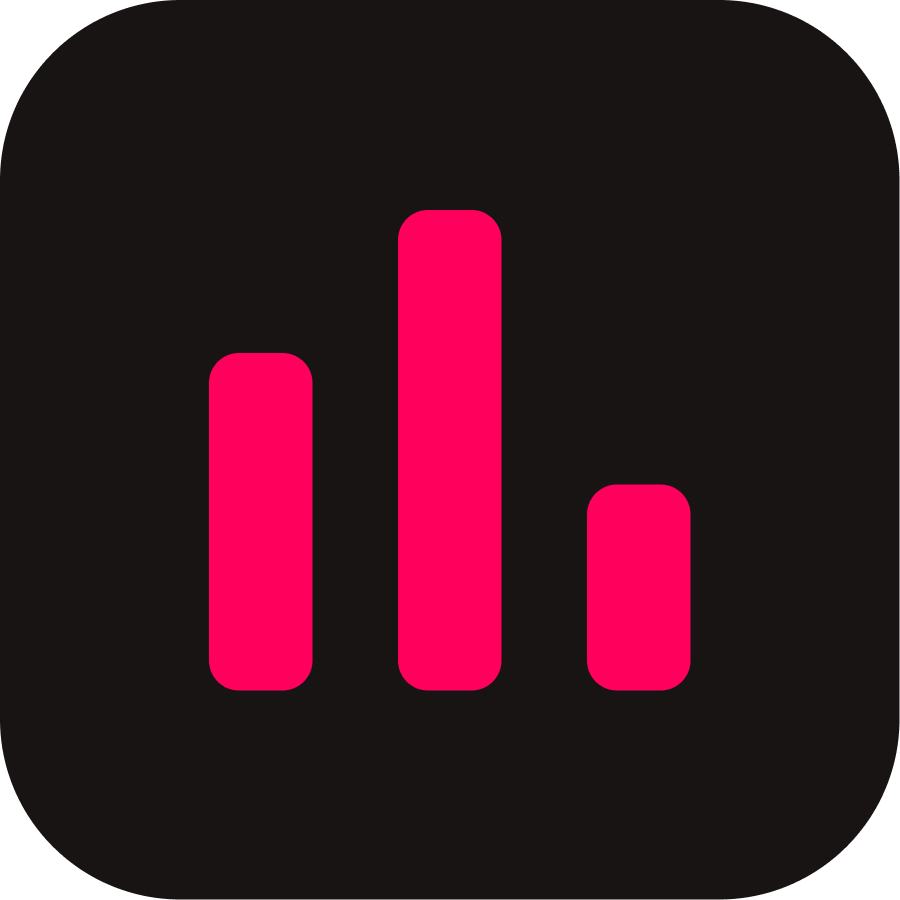
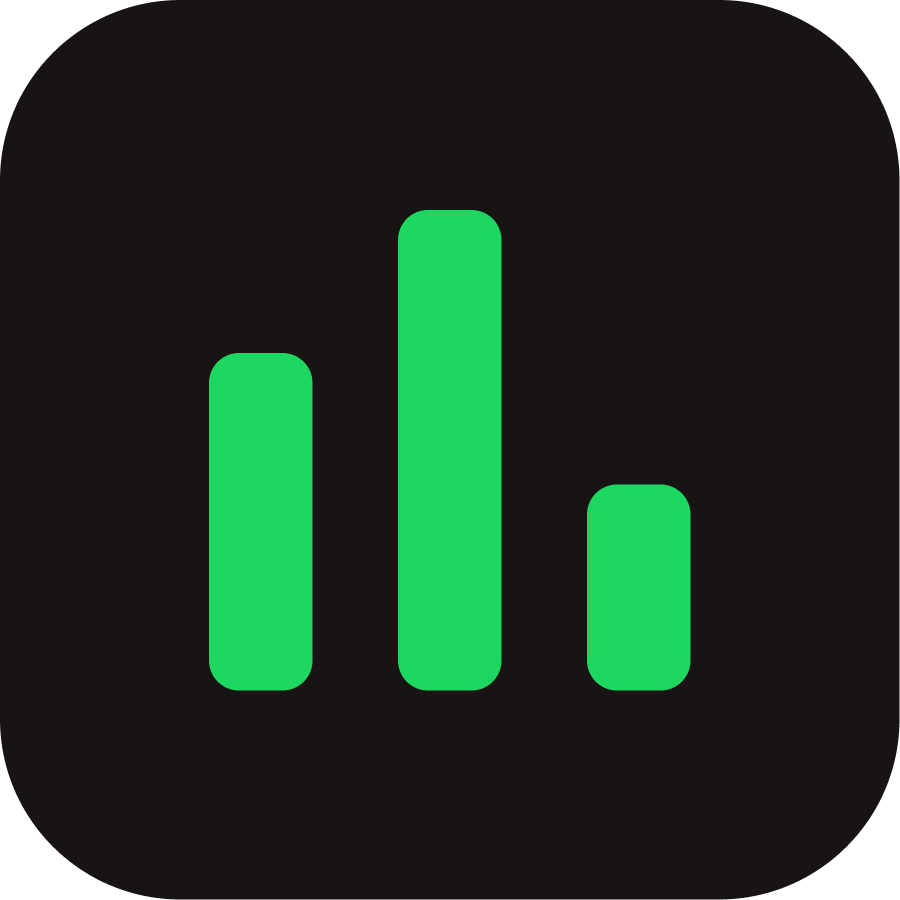
feat(core): back to green theme

Changed region(s): [[0.4356, 0.2178, 0.56, 0.7778], [0.2178, 0.3733, 0.3733, 0.7778], [0.6533, 0.5289, 0.7778, 0.7778]]

diff --git a/src/.vuepress/config.ts b/src/.vuepress/config.ts
@@ -8,6 +8,10 @@ export default defineUserConfig<DefaultThemeOptions, ViteBundlerOptions>({
   bundler: "@vuepress/vite",
   themeConfig: {
     logo: "/assets/icon.png",
+    // algolia: {
+    //   apiKey: '<API_KEY>',
+    //   indexName: '<INDEX_NAME>'
+    // },
     sidebar: [
       { link: "/permissions", text: "Permissions", children: [] },
       { link: "/faq", text: "FAQ", children: [] },

diff --git a/src/.vuepress/styles/index.scss b/src/.vuepress/styles/index.scss
@@ -1,7 +1,7 @@
 :root {
   // brand colors
-  --c-brand: #ff005c;
-  --c-brand-light: #ff005c;
+  --c-brand: #1ed761;
+  --c-brand-light: #1ed761;
 
   // background colors
   --c-bg: #ffffff;
